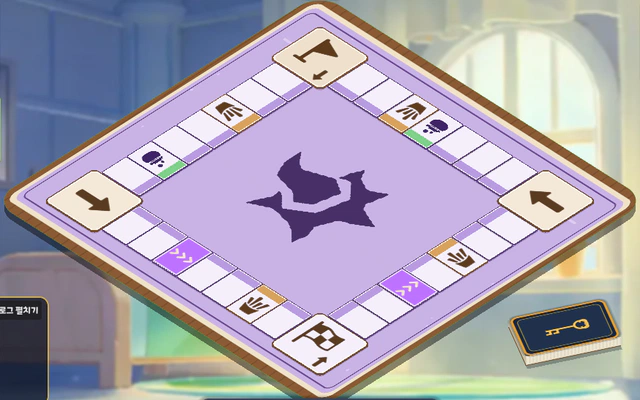
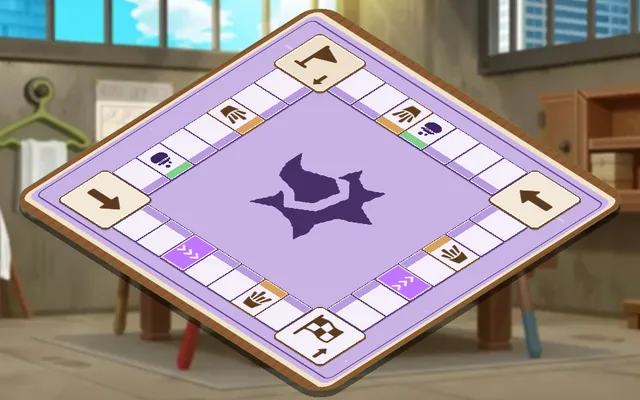
규칙 도감 UI/UX 10건: 카드 분류 필터·전체 암전 팝업·백업 팝업 닫기·미니 보드·보드 미리보기 (HANDOFF-012, 1.3.1)
- UI-01 카드 장 분류 필터 5종(필터 안에서 이전·다음 순환)
- UI-02 상세 팝업 전체 암전(0.65) + 짙은 갈색 [닫기] + [×] 44px
- UI-03 백업 팝업 밝은 입력칸 + [×] 36px + 바깥 누르면 닫기
- UI-04 특수 칸 미니 보드 276px / 보드판 상세 320px
- UI-05 스크롤 원인 조사(이미 AUTO, 실제 넘침이었음) + 짧은 팝업 세로 가운데
- UI-06 스크롤 끝 여백 18px, 법전 [보드 1/4 ▶] 칩
- UI-07 방어 타일 그림 구분, UI-08 장 버튼·리본·메달 배치
- UI-09 classic·monatium·belatien 미리보기 HUD 없이 재캡처
- UI-10 한 턴 ① 카드 문구, 기본 규칙 노트 압축으로 꿀팁까지 한 화면
- 개발 기록 7.140, CHANGELOG, 1.3.1 공지

Claude-Session: https://claude.ai/code/session_01HvvTBBGdmqrXHkL2GAw3GJ

diff --git a/docs/DEV_HISTORY.md b/docs/DEV_HISTORY.md
@@ -2150,6 +2150,19 @@ godot --headless --audio-driver Dummy --path . -s res://tests/ui_live_hotfix_tes
 - 범위 시험(`HANDOFF-006`): 블랙잭은 "한 번 더"를 글 대신 성공 도장으로(11-04 설계), 굴림 기록은 글 머리줄을 숨기고 총수만 유지, 프로필 오라 시험은 증강 창이 없을 때도 시작.
 - 야추 컵(`HANDOFF-008`, PRESENTATION 2.3): `YachtCase3D.split_model`이 케이스 메시에서 컵(컵 재질 2면 + 오른쪽 금속 테)을 떼어 내고, `YachtRoll3D`가 같은 화면에 컵을 세운다. 흔들기(0.34초) → 펠트 쪽으로 72° 기울이기(0.46초) → 입구(`cup_mouth`)에서 주사위가 나와 굴러감 → 바로 서기. 주사위는 컵 속에 있는 동안 숨는다. 삼각형 수는 그대로(같은 메시를 나눔).
 
+### 7.140 규칙 도감 UI/UX 10건 (1.3.1, HANDOFF-012 · RULEBOOK_SPEC 4절)
+- 카드 분류 필터(`UI-01`): 카드 장에서만 요약 배너 자리(`y 140`)에 [전체·방어·발동·함정·소환] 알약 5개(높이 36, 터치 44, 간격 8). 수는 `CardRegistry.DECK_COMPOSITION`의 종류 수(`Rulebook.card_filter_count`). 필터를 바꾸면(`set_card_filter`) 격자를 그 분류로 다시 그리고 맨 위로, 상세 팝업의 이전·다음도 필터 안에서만 돈다(장 내용 `_ch_cards`가 필터를 거른다). 격자는 `y 186`, 높이 528.
+- 상세 팝업(`UI-02`): 암전 막을 도감 노드 전체(`PRESET_FULL_RECT`, 검정 0.65, z 9: 노트 z 10 아래, 격자·장 버튼·[기록 백업/복구] 위)로. [닫기]는 짙은 갈색 `#5f4630` + 흰 글씨(`_paint_close`), 오른쪽 위 [×] 44×44(`ClosePopupX`). 메달은 팝업에서 숨긴다(`UI-08`).
+- 백업 팝업(`UI-03`): 코드 칸을 `LobbyTheme.input_field` 스킨(`#EEFFA8` / 글자 `#1B4D3E` / 안내 글자 `#5A7A68`)으로, 오른쪽 위 [×] 36×36(`CloseSavePopup`), 팝업과 [기록 백업/복구] 밖을 누르면 닫힌다(누른 것은 뒤로 새지 않는다).
+- 특수 칸 미니 보드(`UI-04`): 기본 규칙 노트는 276×276(`BASIC_BOARD_PX`), 도감 보드판 상세는 320×320. 첫 화면에 0번 출발선까지 보인다.
+- 스크롤바(`UI-05`) 원인 조사: 두 스크롤은 이미 `SCROLL_MODE_AUTO`였고, 실제로 잰 결과 짧은 상세 팝업엔 스크롤바가 뜨지 않았다. 눈에 띈 스크롤바는 기본 규칙 노트의 진짜 넘침(한 턴 536/457px, 특수 칸 764/457px)이었다 → UI-04·UI-10으로 해소(한 턴은 457/457). 짧은 팝업(본문이 노트 종이 높이의 55% 미만)은 위 여백으로 세로 가운데(`_balance_detail`).
+- 여백·칩(`UI-06`): 도감 격자 끝 여백 18px(`ScrollBottomMargin`), 상세 본문 아래 여백 18px. 법전 보드 전환 화살표를 [보드 1/4 ▶] 칩으로(높이 36, 터치 44). 풀 파워·보드연성진 끝줄은 스크롤로 끝까지 내려 보면 카드 안에 다 들어가 있었다(격자 끝에 붙어 보이던 것).
+- 잡기 장 방어 타일(`UI-07`): 잡기 방어 `capture` · 공격 방어 `attack` · 함정 방어 `trap_card` · 만능 방어 `CNT_01` 카드 그림 (파랑 바탕 유지, 추가 용량 0).
+- 배치(`UI-08`): 장 버튼 열 `(28, 136)`, 196×60, 간격 7. 리본 `y 716`, 높이 40. 메달은 노트 가죽 모서리 8px 안쪽.
+- 보드 미리보기(`UI-09`): classic·monatium·belatien을 HUD·굴리기 버튼·카드 더미 없이 다시 찍었다(640×400 WebP).
+- 한 턴(`UI-10`): ① 카드 줄 "굴리기 전에 카드 1장 · 필살기 사용 (안 써도 돼요)", 기본 규칙 노트를 촘촘하게(큰 그림 108, 표 줄 간격 3, 요점 간격 3, 항목 간격 6) → 꿀팁 상자까지 첫 화면에.
+- 시험: `ui_rulebook_scroll_test` (필터 5종·필터 안 순환·전체 암전·[×]·[닫기] 색·백업 팝업 닫기·미니 보드·꿀팁·장 버튼 높이, 1180개 확인).
+
 ## 부록 B. 초기 예외 규칙 해석 (v1~v3.2, `EDGE_CASE_SPEC.md`에서 옮김)
 
 > 이 부록의 규칙은 당시 기준이다. 24칸 순환 트랙, 세트 효과, 후퇴 눈금, 옛 법전 교칙 등은 이후 개편으로 바뀌었다.

diff --git a/CHANGELOG.md b/CHANGELOG.md
@@ -69,6 +69,7 @@
 - 개선(1.3.1, 사용자 요청): 다트 과녁은 테두리·받침은 그대로 두고 과녁 판만 다시 돈다. 던지면 돌던 각도 그대로 이어 돌다가 다트가 꽂힌 채 서서히 멈춘다 (개발 기록 7.136).
 - 수정(1.3.1, 기획서 예외 규칙 2.1-2·3 대조): 마지막 차례가 특수 발판(자판기·가마솥·정령 칸·코너·빵집·부스터 발판)에 멈춘 순간 라운드가 넘어가면 그 연출 중에 템포 업 경고음·배너가 겹치던 문제, 정령산 다음 판에서 디버그 판이 빵집 칸을 읽다 화면 준비가 끊기던 문제 (개발 기록 7.137).
 - 수정(1.3.1, 일본어 제보): 컴퓨터가 해적 룰렛을 이어 꽂는 중에 [멈추기] 버튼이 보이고 눌려 컴퓨터의 룰렛을 멈출 수 있던 문제. [멈추기]는 내 차례에만 (개발 기록 7.138).
+- 개선(1.3.1, 기획서 HANDOFF-012): 규칙 도감 UI/UX 10건. 카드 장 분류 필터 5종(필터 안에서 이전·다음), 상세 팝업 전체 암전 + 짙은 갈색 [닫기] + [×], 백업 팝업 밝은 입력칸 + [×] + 바깥 누르면 닫기, 특수 칸 미니 보드 276px(출발선까지 한 화면), 한 턴 꿀팁까지 한 화면, 짧은 팝업 세로 가운데, 법전 [보드 1/4 ▶] 칩, 방어 타일 그림 구분, 장 버튼·리본·메달 배치, 보드 미리보기 3종 HUD 없이 다시 찍기 (개발 기록 7.140)
 - 변경(1.3.1, 기획서 HANDOFF-010): 친치로를 카이지 4·5·6 사기 주사위 3개 + 1/6 쇼벤 족보로 (4~12칸, 0칸 가능). 개선(HANDOFF-009·002·008): 규칙 도감 오기 10건·카드 설명 통일 용어·야추 컵이 흔들고 기울여 쏟는 연출. 시험 정비(HANDOFF-006) (개발 기록 7.139).
 
 ## [1.3.0] (정령산·해적 룰렛·스크래치 복권·신규 카드 7종)
